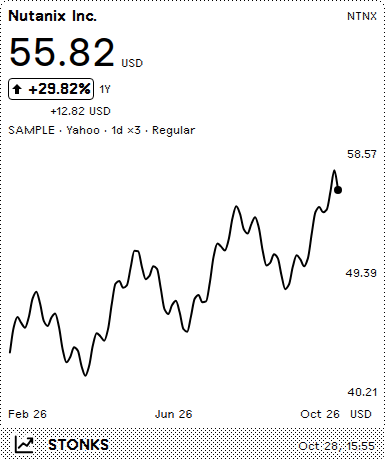
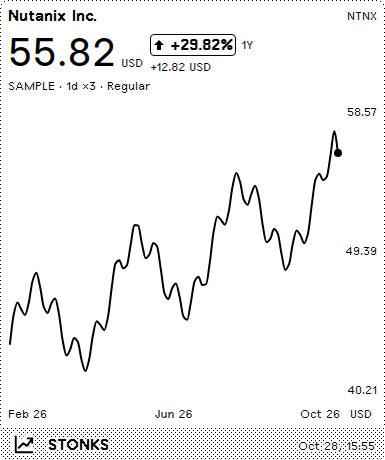
style: group returns beside the stock price
Remove the redundant provider label from chart context and keep percentage and absolute returns beside the price, wrapping left in narrow slots. All 89 tests and 864 device/layout previews pass.

diff --git a/TRMNL/README.md b/TRMNL/README.md
@@ -66,7 +66,7 @@ Changing the list or clearing Saved State restarts at the first entry. Rotation 
 - **shared.liquid:** shared UI preparation, palette styles and reusable heading, quote, status, chart and footer components.
 - **full.liquid:** prominent price and a full-size chart.
 - **half_horizontal.liquid:** short layout with a cap on the largest quote size.
-- **half_vertical.liquid:** stacked quote and return above the chart.
+- **half_vertical.liquid:** compact quote and return above the chart.
 - **quadrant.liquid:** compact typography for the smallest slot.
 - **transform.js:** Yahoo response validation, FX requests, conversion, saved-state recovery, chart coordinates and exact numeric/date formatting. No runtime packages or browser scripts.
 
